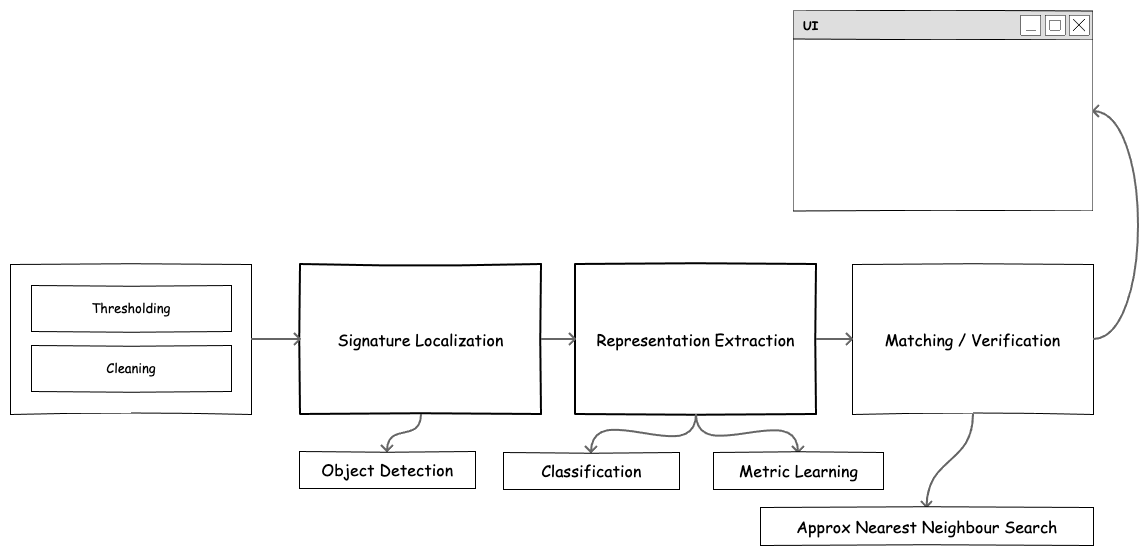
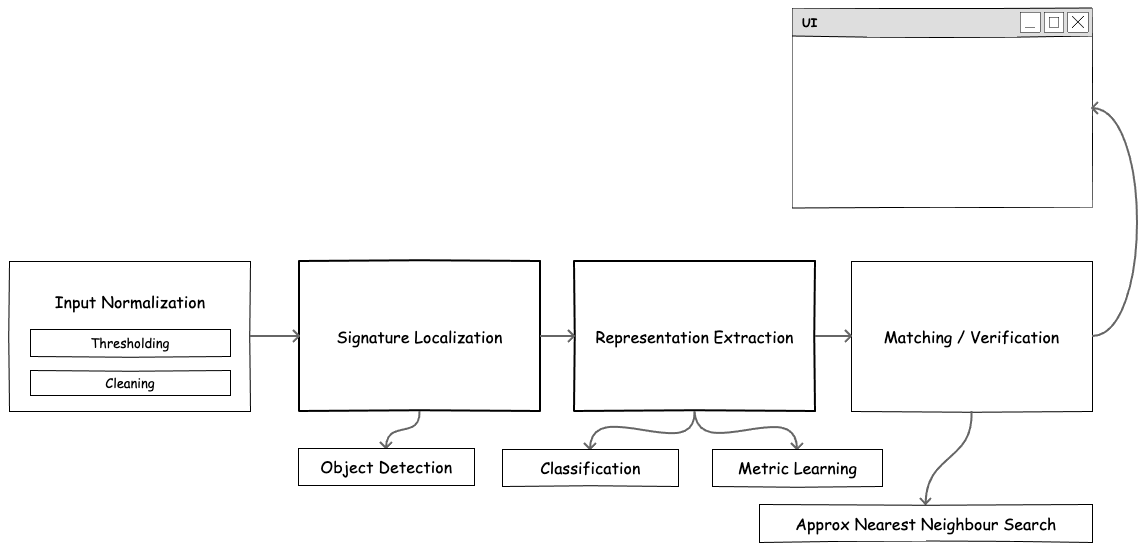
update figures

diff --git a/README.md b/README.md
@@ -7,4 +7,8 @@ This repo contains results from experiments applying deep learning to signature 
 
 
 
+ ## Signver Library Modules
+
+ ### Localizer
+
  
